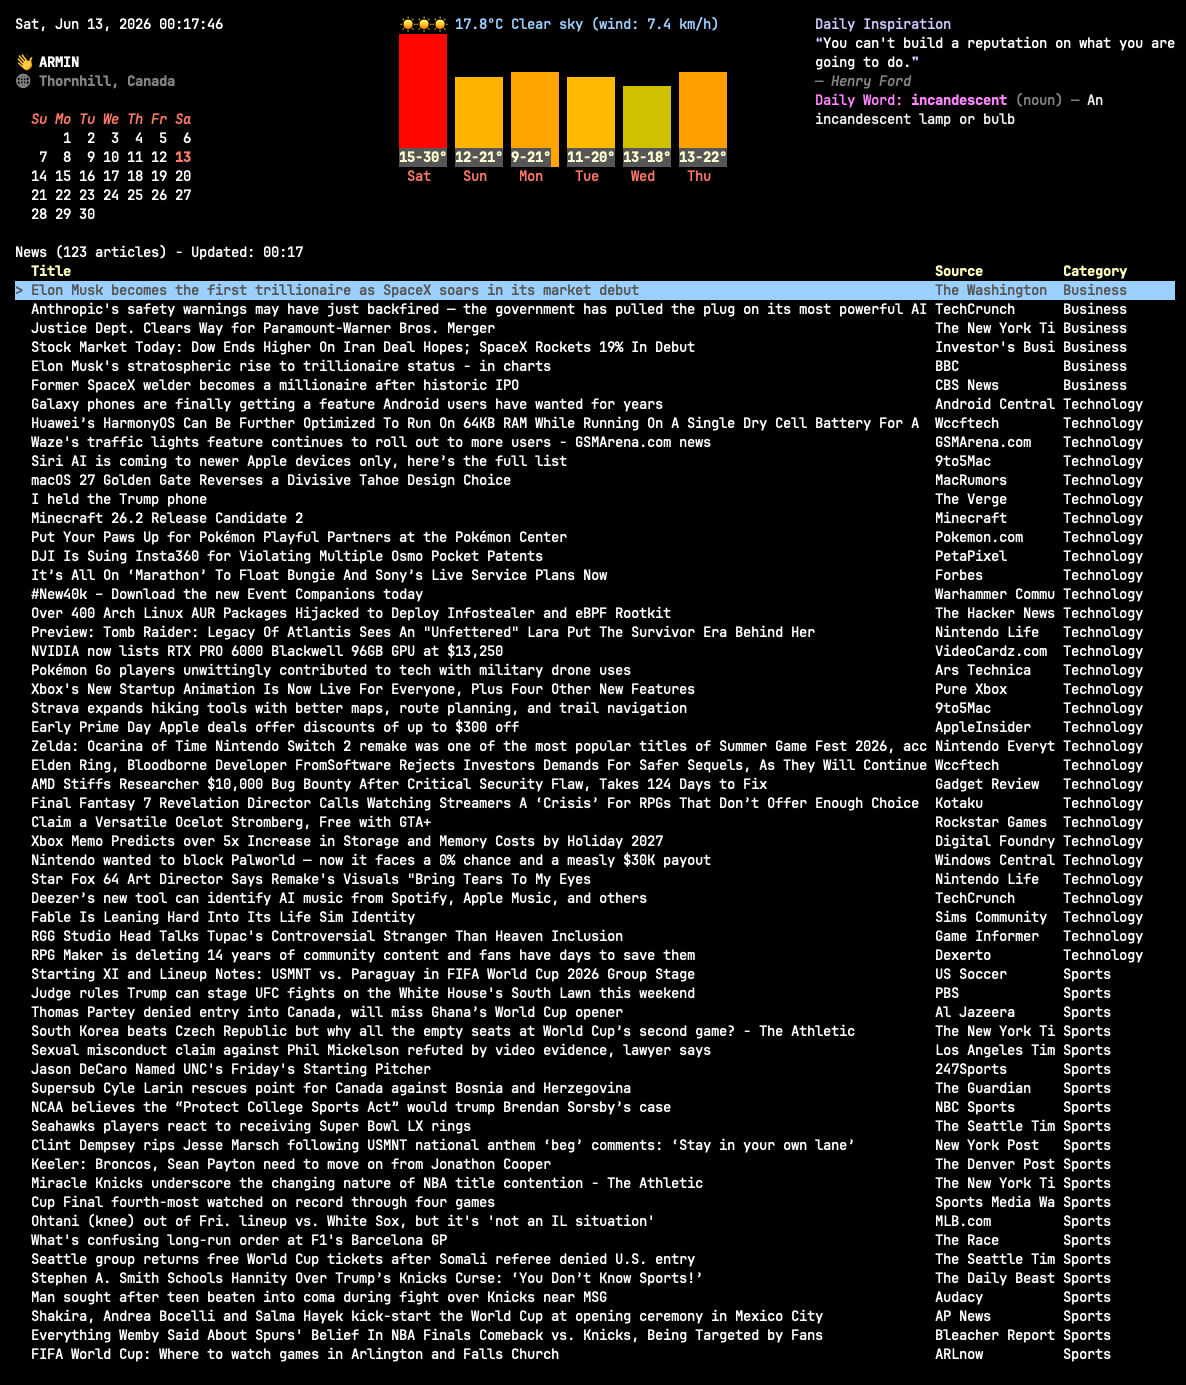
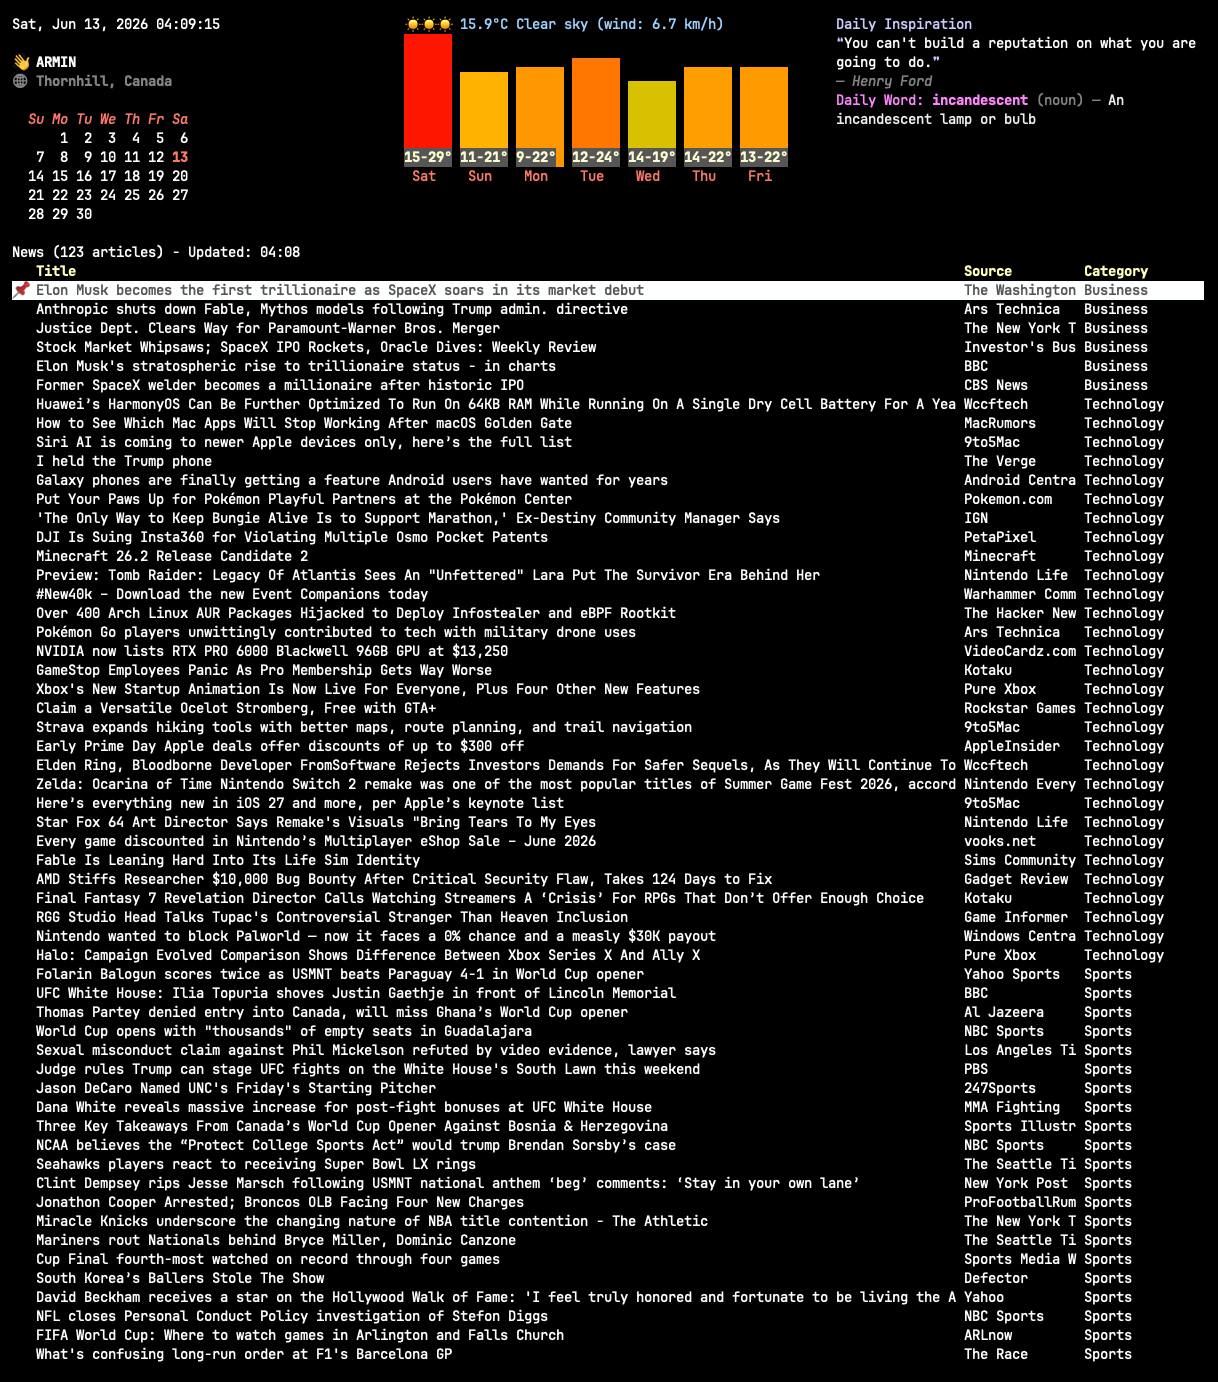
style: Update row highlight color and symbol in News component
- Changed the row highlight background color from blue to light yellow for better visibility.
- Updated the highlight symbol to a pin emoji for improved user experience.

diff --git a/src/components/news.rs b/src/components/news.rs
@@ -324,8 +324,8 @@ impl Component for News {
                         .title(title)
                         .style(Style::default().fg(Color::White)),
                 )
-                .row_highlight_style(Style::default().bg(Color::Blue))
-                .highlight_symbol("> ");
+                .row_highlight_style(Style::default().bg(Color::White))
+                .highlight_symbol("📌 ");
 
                 let news_area = Rect {
                     x: area.x + 2,